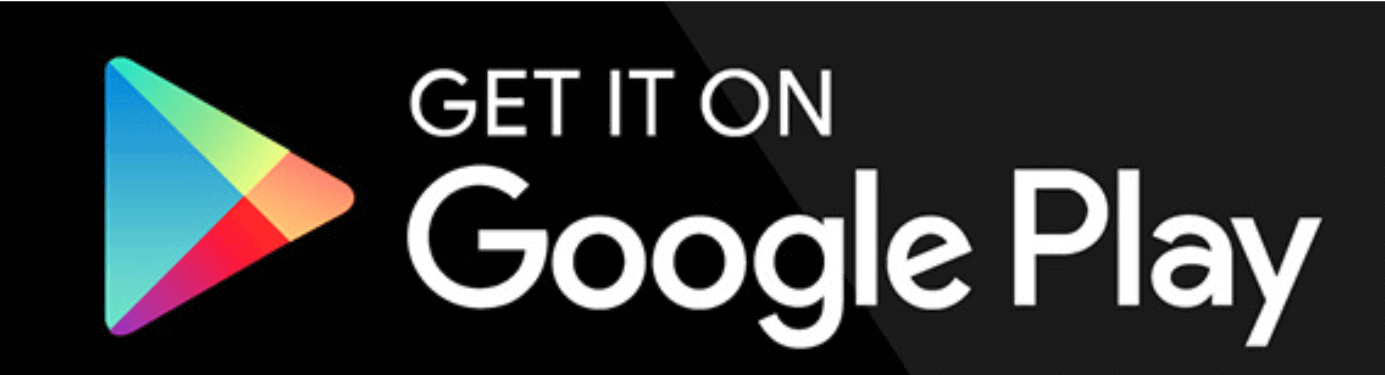
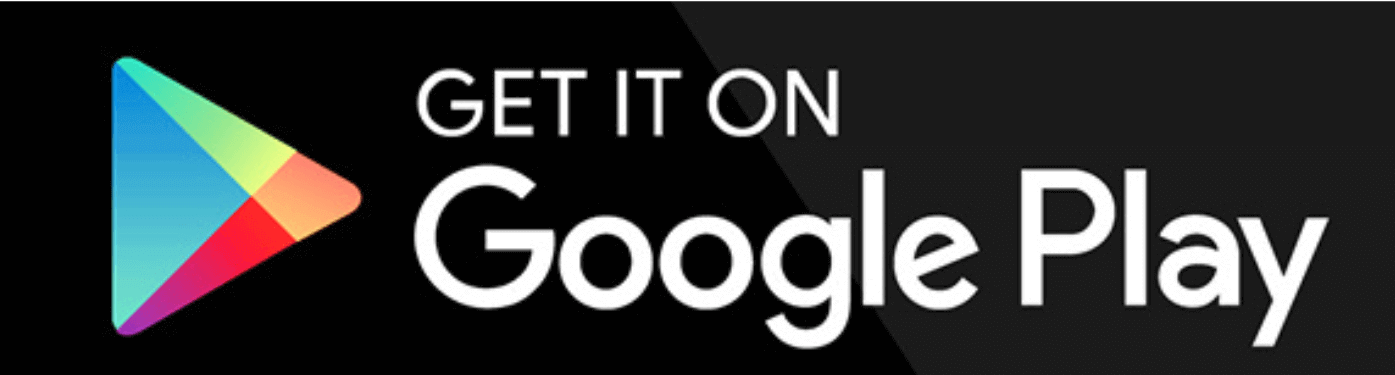
add

diff --git a/index.html b/index.html
@@ -178,7 +178,7 @@
                   <tr>
                     <td valign="center">
                       <img
-                        src="https://raw.githubusercontent.com/sushilkundu143/emailtemplate/master/assets/4.png"
+                        src="https://raw.githubusercontent.com/sushilkundu143/emailtemplate/master/assets/4_1.png"
                         atl="Google Play"
                         id="googleplay"
                       />
